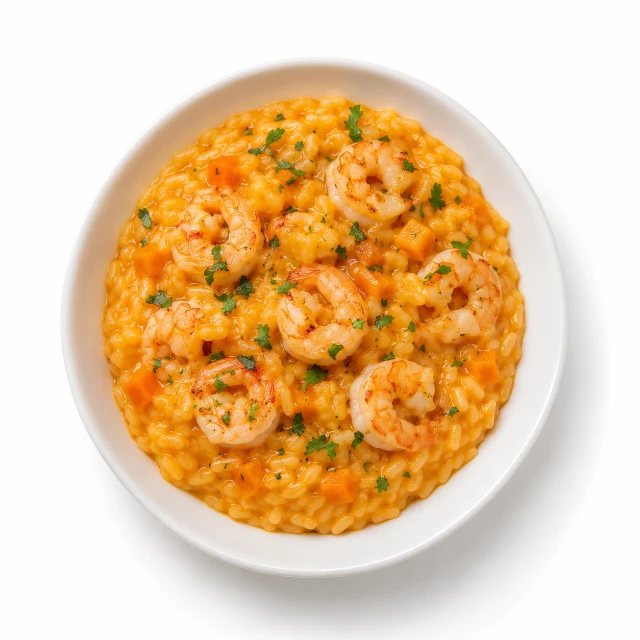
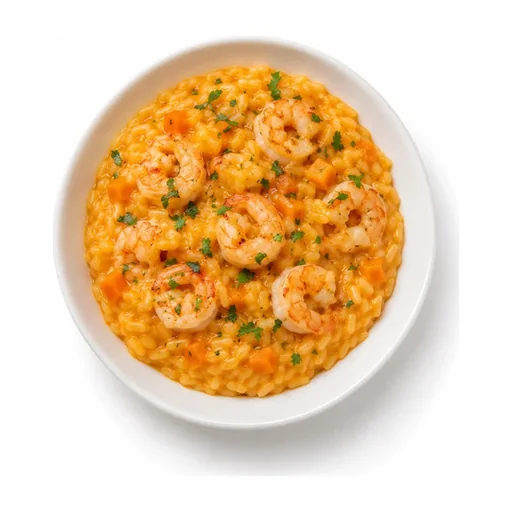
Foto piatti: una foto per ricetta vale per tutte le varianti, altre 12 foto, scarto delle foto tagliate
- dishImage: la foto esatta quando c'e, altrimenti la foto principale del piatto
- 12 nuove foto dei piatti X
- normalize-meal-photos.py: una foto il cui piatto esce dal bordo viene scartata (--check per il solo controllo)

Claude-Session: https://claude.ai/code/session_0195jBs2XVQeVsoaPSpM4G61

diff --git a/src/lib/planning/fitlab/dish-images.ts b/src/lib/planning/fitlab/dish-images.ts
@@ -91,11 +91,22 @@ export const DISH_IMAGE_IDS: Record<string, string> = {
   X317: 'x317',
   X322: 'x322',
   X323: 'x323',
+  X202: 'x202',
+  X204: 'x204',
+  X205: 'x205',
+  X301: 'x301',
+  X303: 'x303',
+  X304: 'x304',
+  X318: 'x318',
+  X319: 'x319',
+  X321: 'x321',
+  X330: 'x330',
+  X332: 'x332',
+  X333: 'x333',
 };
 
-
-/** Second photos of a dish for the variant of its main ingredient (another fish, another meat): tried in order after the
- * dish's own photo, each shown only when the meal has what it depicts (PHOTO_KEYS). */
+/** Second photos of a dish for the variant of its main ingredient (another fish, another meat): preferred over the
+ * dish's own photo when the meal has what they depict (PHOTO_KEYS). */
 export const DISH_IMAGE_VARIANTS: Record<string, string[]> = {
   PL034: ['pl034-sgombro'],
   PL036: ['pl036-tacchino'],
@@ -105,10 +116,10 @@ export const DISH_IMAGE_VARIANTS: Record<string, string[]> = {
   PL048: ['pl048-sgombro'],
 };
 
-/** What each photo actually shows: the foods that must be in the meal (each inner list is "any of these") for the photo to
- * be shown. A dish allows several proteins, bases and fruits, but a photo shows one of each (here only the ingredient that gives the dish its identity: the fish, the meat, the fruit): with another one in the
- * meal (salmon where the photo has sea bream, apple where it has banana) the photo would lie, so the plate shows the
- * placeholder instead. Photos with no entry always fit their dish. */
+/** What each photo actually shows: the foods (each inner list is "any of these") that make it the exact picture of a meal.
+ * A dish allows several proteins, bases and fruits, but a photo shows one of each (here only the ingredient that gives the
+ * dish its identity: the fish, the meat, the fruit). It decides which photo wins when a dish has more than one: the one
+ * that shows the meal's own foods, else the main one. Photos with no entry always count as exact. */
 /** Foods that look the same on the plate: a photo of one honestly shows the other. */
 const POULTRY = ['Petto di pollo', 'Petto di tacchino'];
 const YOGURT = ['Yogurt greco 0%', 'Yogurt greco 2%', 'Skyr', 'Yogurt magro', 'Yogurt proteico'];
@@ -175,17 +186,30 @@ const PHOTO_KEYS: Record<string, string[][]> = {
   x317: [['Sardine']],
   x322: [['Petto di pollo', 'Petto di tacchino']],
   x323: [['Tonno al naturale']],
+  x202: [['Yogurt greco 0%', 'Yogurt greco 2%', 'Skyr'], ['Noci']],
+  x204: [['Tonno al naturale'], ['Pomodori']],
+  x205: [['Fesa di tacchino affettata'], ['Avocado']],
+  x301: [['Gamberi'], ['Zucca']],
+  x303: [['Petto di pollo', 'Petto di tacchino'], ['Fagiolini']],
+  x304: [['Ricotta magra'], ['Melanzane']],
+  x318: [['Petto di pollo', 'Petto di tacchino']],
+  x319: [['Hamburger di merluzzo']],
+  x321: [['Gamberi'], ['Zucchine']],
+  x330: [['Petto di pollo', 'Petto di tacchino']],
+  x332: [['Fesa di tacchino affettata']],
+  x333: [['Lenticchie']],
 };
 
 /** True when the meal's foods contain what the photo shows. */
 const depicts = (photoId: string, foodNames: string[]): boolean => (PHOTO_KEYS[photoId] ?? []).every((anyOf) => anyOf.some((n) => foodNames.includes(n)));
 
-/** The photo for a dish, or undefined when the library has none for it. With the names of the meal's foods, only a photo that
- * really shows them (see PHOTO_KEYS). */
+/** The photo for a dish, or undefined when the library has none for it. With the names of the meal's foods, the photo that
+ * shows exactly them when there is one (the dish's own or a variant, see PHOTO_KEYS); otherwise the dish's main photo, which
+ * stands for the recipe whatever ingredient the plan swapped in (product decision: one photo per recipe is enough). */
 export function dishImage(dishId: string | undefined, foodNames?: string[]): MealImage | undefined {
   if (!dishId) return undefined;
   const main = DISH_IMAGE_IDS[dishId];
   if (!main) return undefined;
-  const id = [main, ...(DISH_IMAGE_VARIANTS[dishId] ?? [])].find((candidate) => !foodNames || depicts(candidate, foodNames));
-  return id ? BY_ID.get(id) : undefined;
+  const exact = foodNames ? [main, ...(DISH_IMAGE_VARIANTS[dishId] ?? [])].find((candidate) => depicts(candidate, foodNames)) : undefined;
+  return BY_ID.get(exact ?? main);
 }

diff --git a/scripts/assets/normalize-meal-photos.py b/scripts/assets/normalize-meal-photos.py
@@ -12,12 +12,18 @@ file this script
 3. scales it so its longer side takes SUBJECT_SHARE of the square and centres
    it on a white 512 x 512 canvas.
 
-It is idempotent: a photo already in the frame is left alone. New photos
-(scripts/assets/import-meal-photos.py) go through the same function.
+It is idempotent: a photo already in the frame is left alone.
+
+A photo whose plate or food runs off the file's border is cut at the source: no
+reframing can give back the missing rim, and in the app it reads as a cut
+plate. Such a file is REJECTED (listed, left untouched, exit code 1): replace
+it with a whole picture. `--feather` forces the old behaviour (fade the border
+into white) for a file that cannot be replaced yet.
 
 Usage (needs Pillow and NumPy):
     python3 scripts/assets/normalize-meal-photos.py            # all of public/images/meals
     python3 scripts/assets/normalize-meal-photos.py a.webp b.webp
+    python3 scripts/assets/normalize-meal-photos.py --check     # only report cut photos, change nothing
 """
 import glob
 import os
@@ -31,6 +37,8 @@ SUBJECT_SHARE = 0.86  # longer side of the subject, as a share of the square
 FEATHER = 16          # px over which the border dissolves into white
 WHITE_MIN = 238       # a pixel whose darkest channel is above this is background
 TOLERANCE = 0.03      # scale and offset within this are "already in the frame"
+CUT_MAX = 212         # darker than this on the border is the plate or the food, not its soft shadow
+EDGE_MIN = 0.04       # share of a border row/column the subject may cover before the photo counts as cut
 
 
 def feather_to_white(rgb: np.ndarray) -> np.ndarray:
@@ -49,6 +57,15 @@ def subject_box(rgb: np.ndarray):
     if len(xs) == 0:
         return None
     return xs.min(), ys.min(), xs.max() + 1, ys.max() + 1
+
+
+def is_cut(image: Image.Image) -> bool:
+    """True when the plate or the food runs off the border of the file. A soft shadow reaching the border
+    does not count: normalize() fades it into white and nothing of the subject is lost."""
+    rgb = np.asarray(image.convert('RGB')).astype(np.float32)
+    mask = rgb.min(axis=2) < CUT_MAX
+    borders = (mask[:2], mask[-2:], mask[:, :2], mask[:, -2:])
+    return any(float(b.mean()) > EDGE_MIN for b in borders)
 
 
 def normalize(image: Image.Image) -> tuple[Image.Image, bool]:
@@ -91,16 +108,30 @@ def normalize(image: Image.Image) -> tuple[Image.Image, bool]:
 
 
 def main() -> None:
+    args = sys.argv[1:]
+    check_only = '--check' in args
+    feather = '--feather' in args
+    paths = [a for a in args if not a.startswith('--')]
     root = os.path.join(os.path.dirname(__file__), '..', '..', 'public', 'images', 'meals')
-    files = sys.argv[1:] or sorted(glob.glob(os.path.join(root, '*.webp')))
+    files = paths or sorted(glob.glob(os.path.join(root, '*.webp')))
     changed = 0
+    cut = []
     for path in files:
-        result, did = normalize(Image.open(path))
+        image = Image.open(path)
+        if is_cut(image) and not feather:
+            cut.append(os.path.basename(path))
+            print(f'CUT     {os.path.basename(path)}')
+            continue
+        if check_only:
+            continue
+        result, did = normalize(image)
         if did:
             result.save(path, 'WEBP', quality=84, method=6)
             changed += 1
             print(f'framed  {os.path.basename(path)}')
-    print(f'{changed} of {len(files)} photo(s) reframed')
+    print(f'{changed} of {len(files)} photo(s) reframed, {len(cut)} cut at the source')
+    if cut:
+        sys.exit(1)
 
 
 if __name__ == '__main__':
